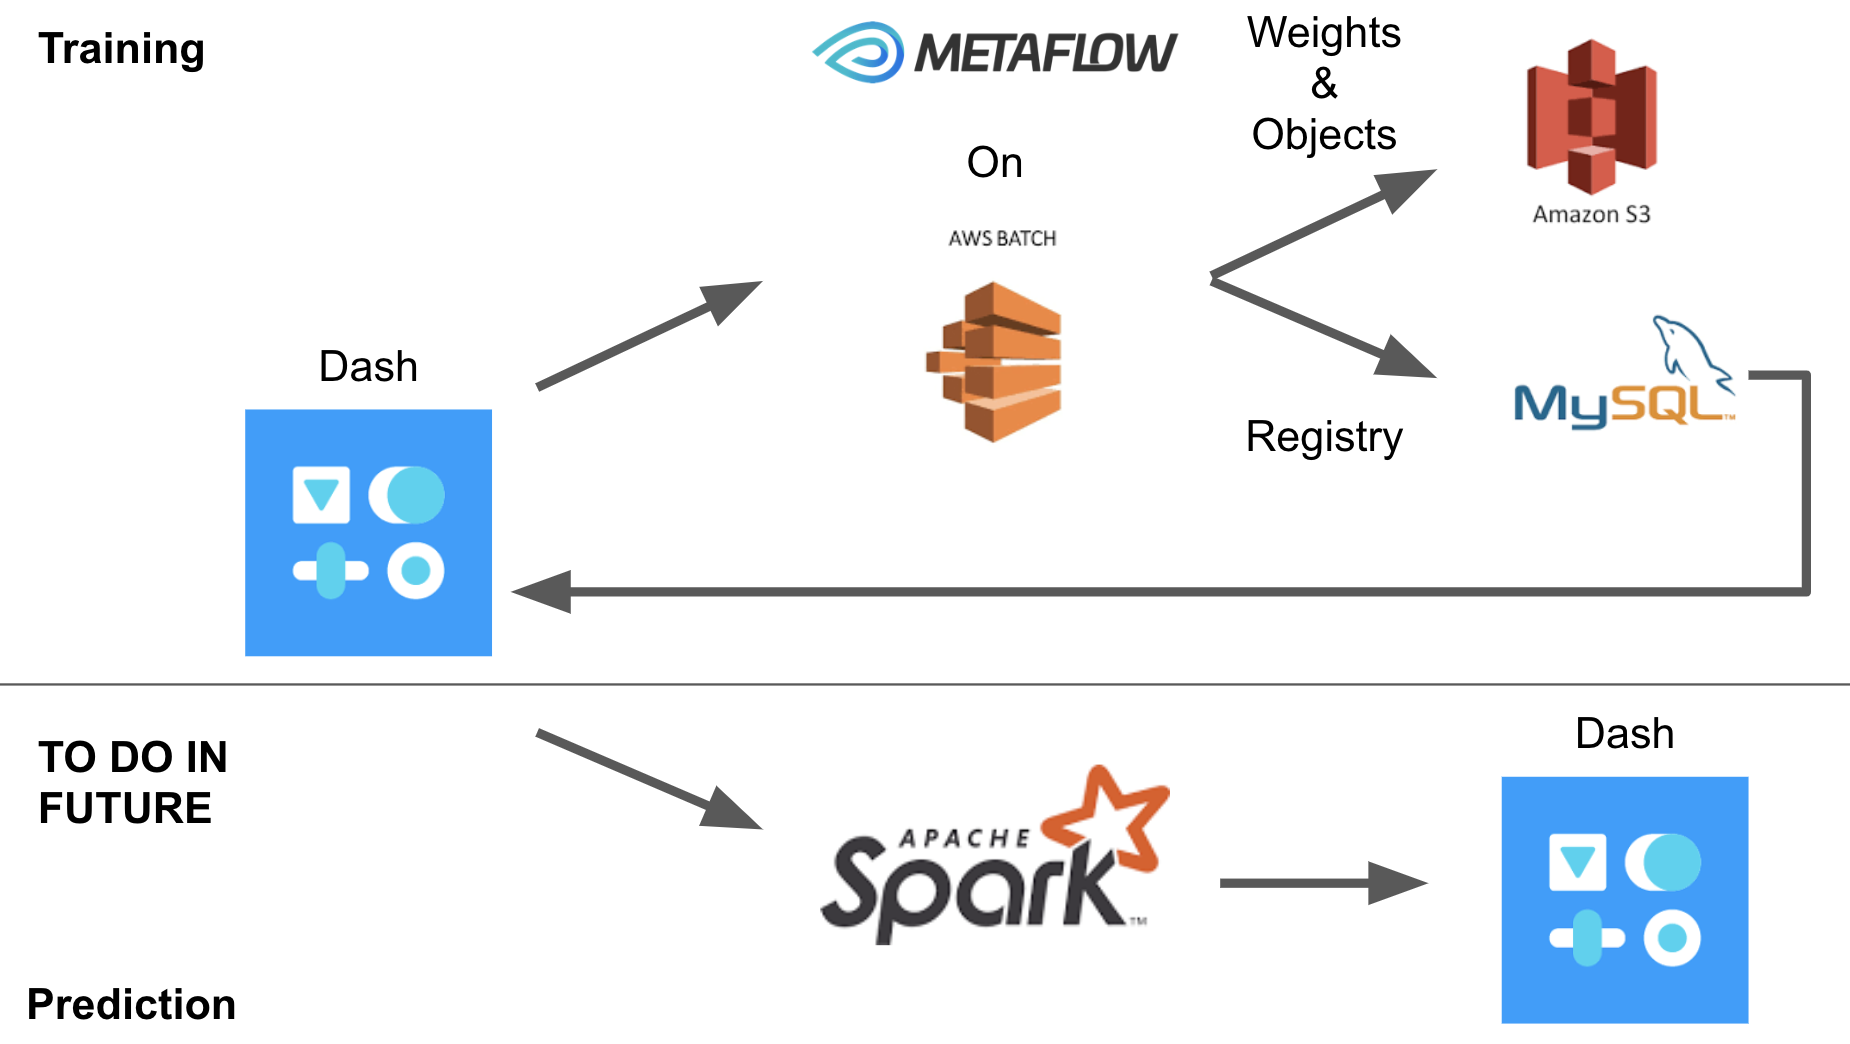
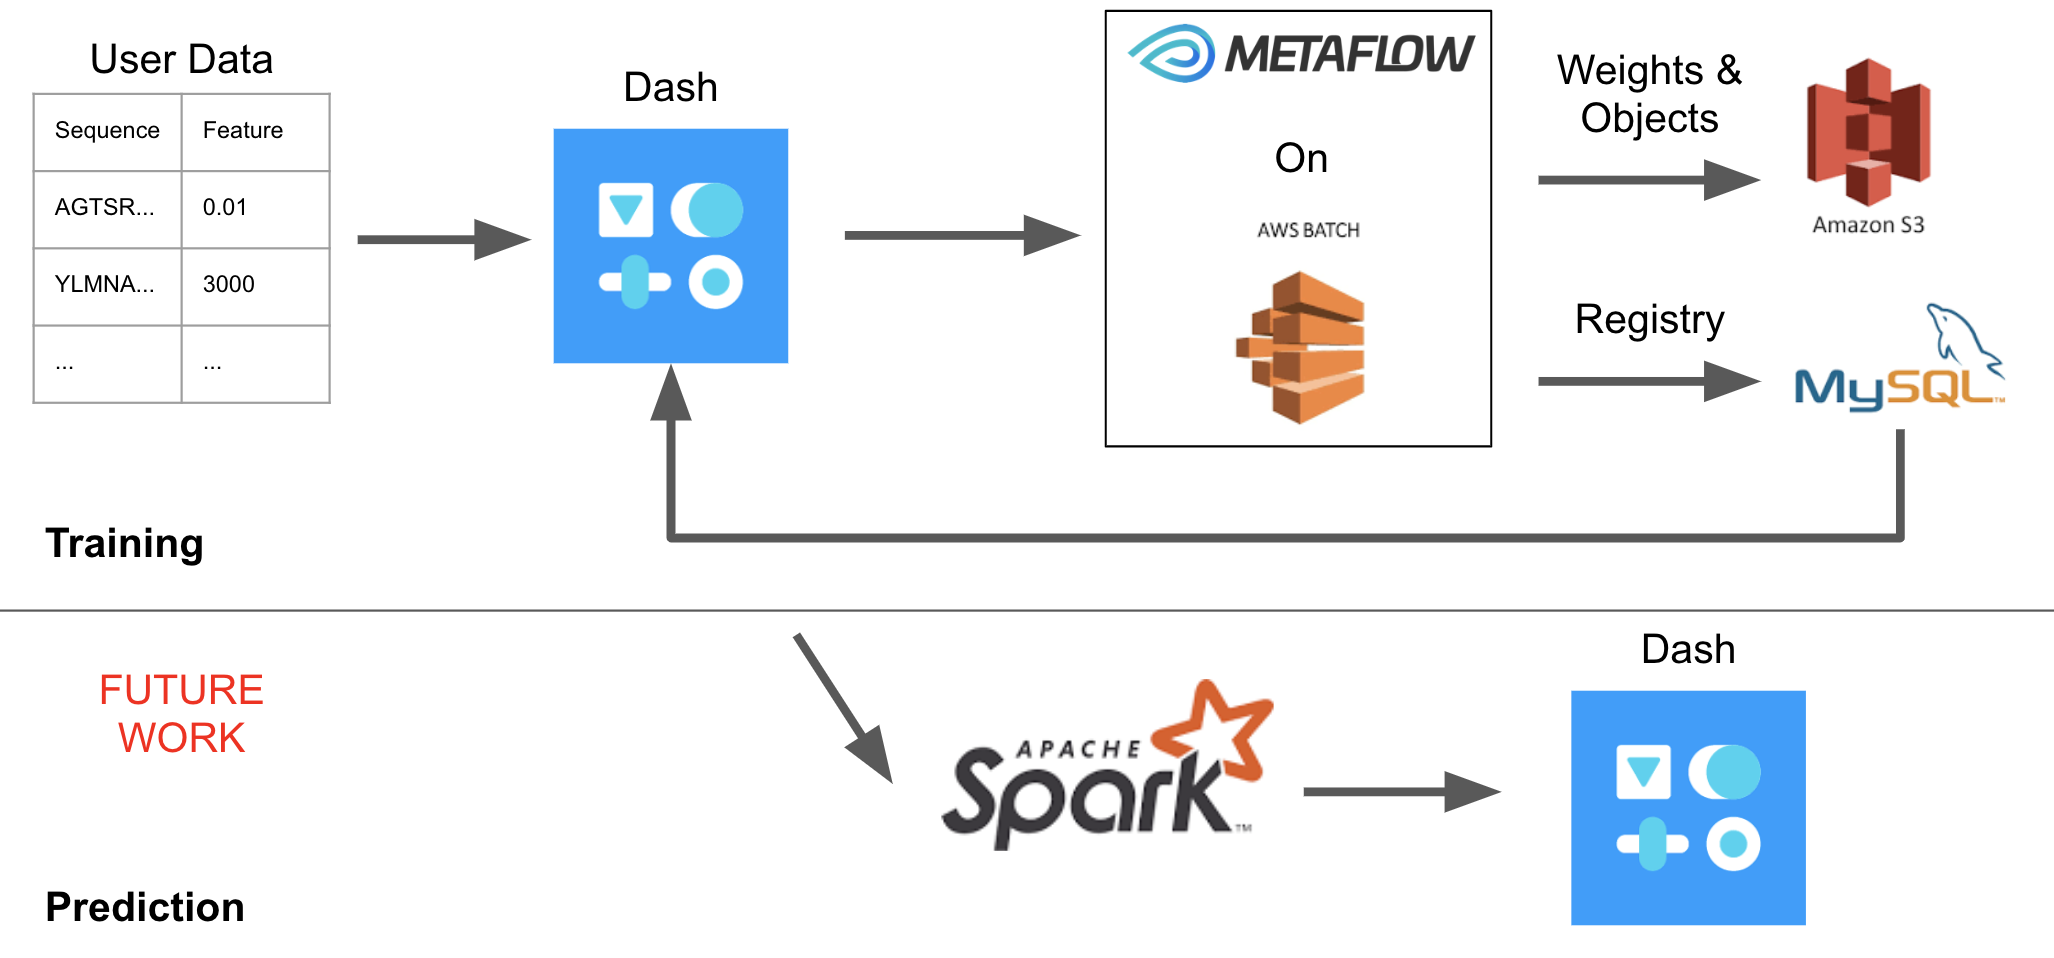
added user directions to README

diff --git a/README.md b/README.md
@@ -2,7 +2,14 @@
 
 This project uses [Metaflow](https://metaflow.org/) on [AWS Batch](https://aws.amazon.com/batch/) to scale training of [UniRep](https://github.com/churchlab/UniRep) in a reproducible, version controlled fashion. This training platform is served to the end user via a [Dash](https://plot.ly/dash/) frontend and model metadata is tracked via a [MySQL](https://www.mysql.com/) database.
 
-**Navigate to the [website] to being performing transfer learning with UniRep on your own data on the cloud!**
+### How to use:
+
+1. Navigate to the [website].
+2. Select a starting model to train off of.
+3. Upload your data or select a preloaded dataset.
+4. Select your training parameters and initiate transfer learning!
+
+What happens next is the webserver submits a job to the AWS Batch job queue. Batch will spin up an EC2 instance if none are currently operating in the compute environment. Then it will load the container with the model's dependencies from ECR, and the metaflow container with all the ScalingTL code on top of that. The model will train until the stopping criteria are met. Finally the model's weights will be saved to S3, and a registry of the model will be appended to the database.
 
 ### Highlights:
 1. Simple: transfer learning on new data is started via a few button clicks on the website.
@@ -14,15 +21,9 @@ This project uses [Metaflow](https://metaflow.org/) on [AWS Batch](https://aws.a
 1. Good for a large org that wants to empower its users or employees to easily build performant models on new data. Not good for a single user building models on their own (better to use Metaflow's python module than a website).
 2. Good for training on models that have large opportunities for transfer learning on new datasets with the the same data schema (e.g. [UniRep](https://github.com/churchlab/UniRep), [DeepLabCut](https://github.com/AlexEMG/DeepLabCut), etc.). Not good for training a be-all end-all model on a singular or evolving dataset (the frontend as well as the database of all trained models would be unnecessary).
 
-
 ## Architecture
 
 ![alt text][architecture]
-
-## Using this Cloud Service
-
-Navigate to the [website], upload your data or select a preloaded dataset, and initiate training a new model with transfer learning off a previously trained model!
-
 
 ## Installing this Cloud Service For Your Own Use
 
